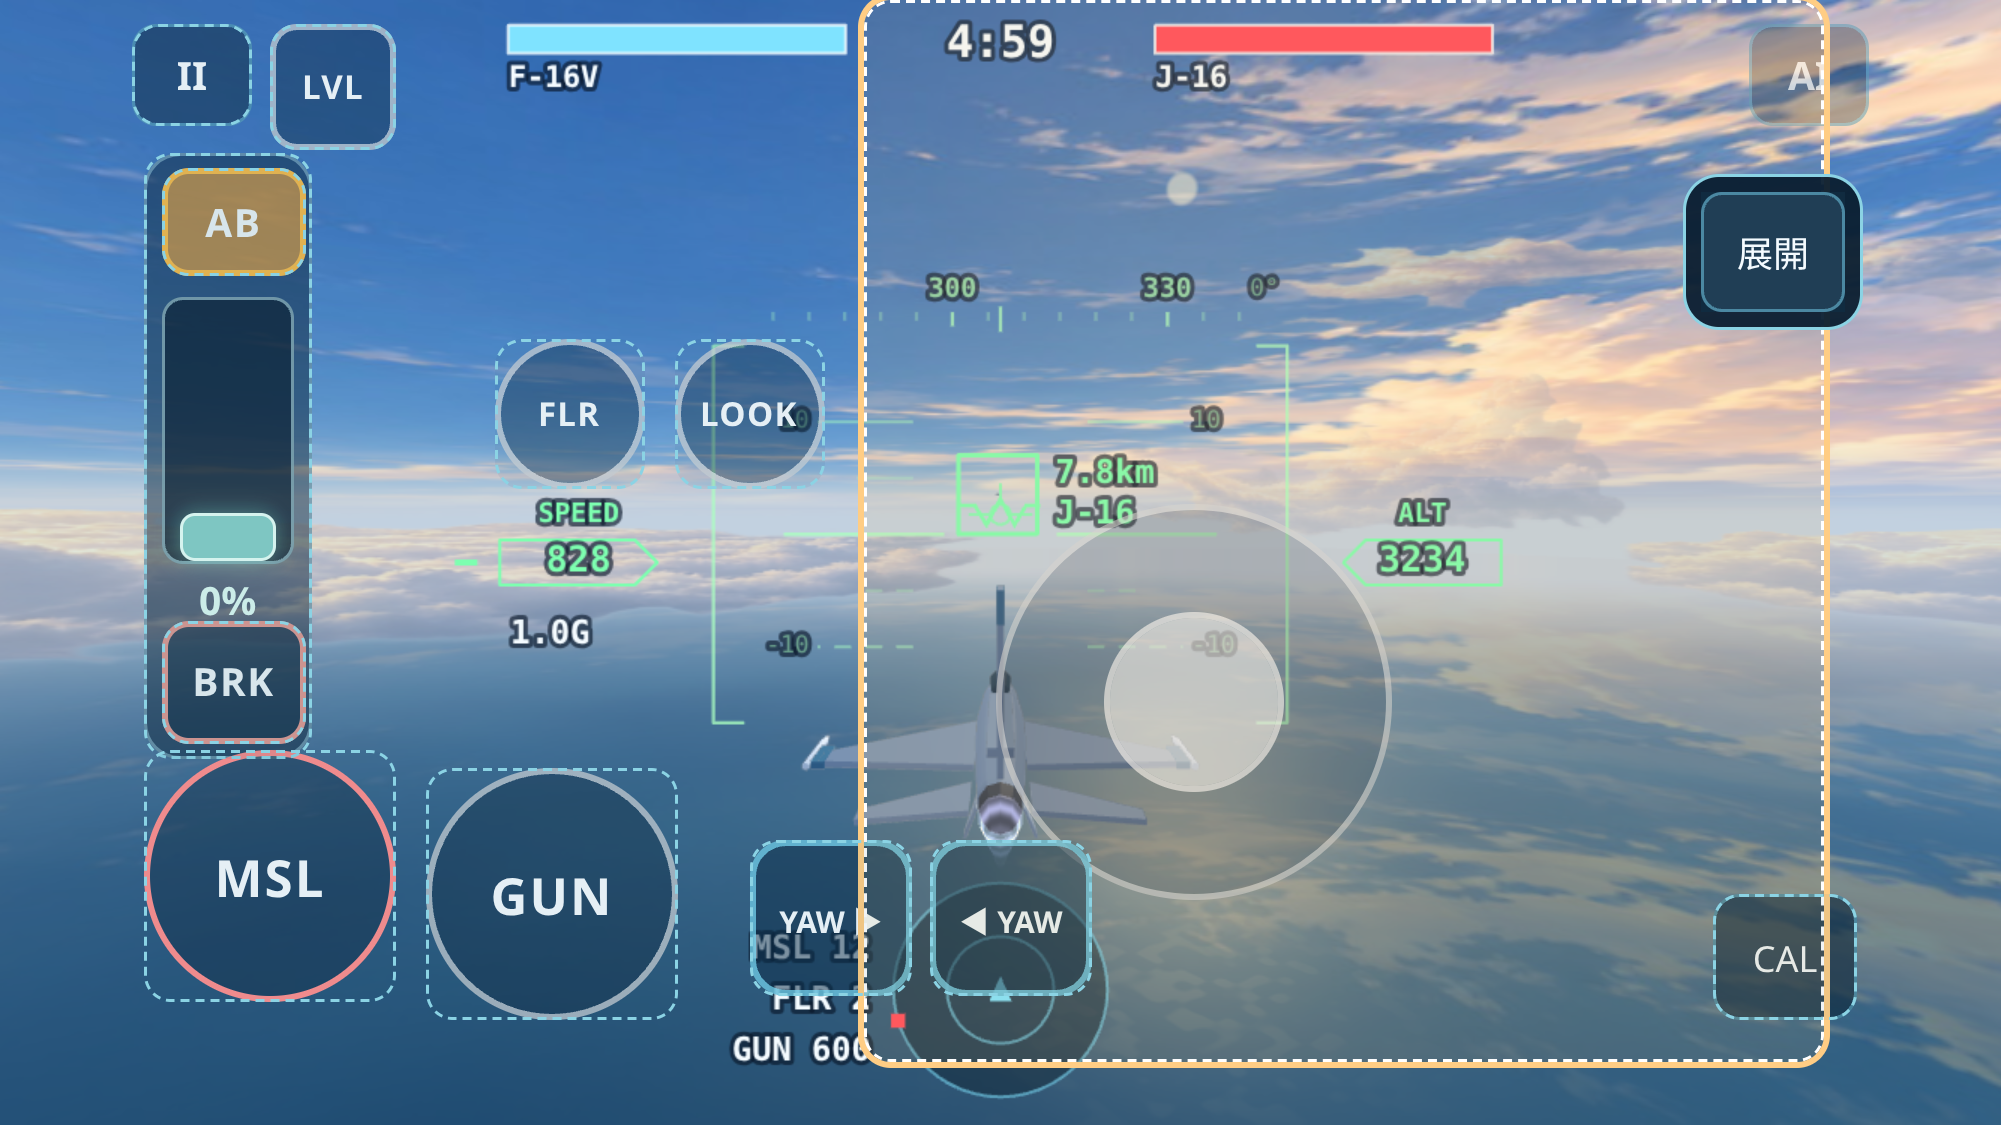
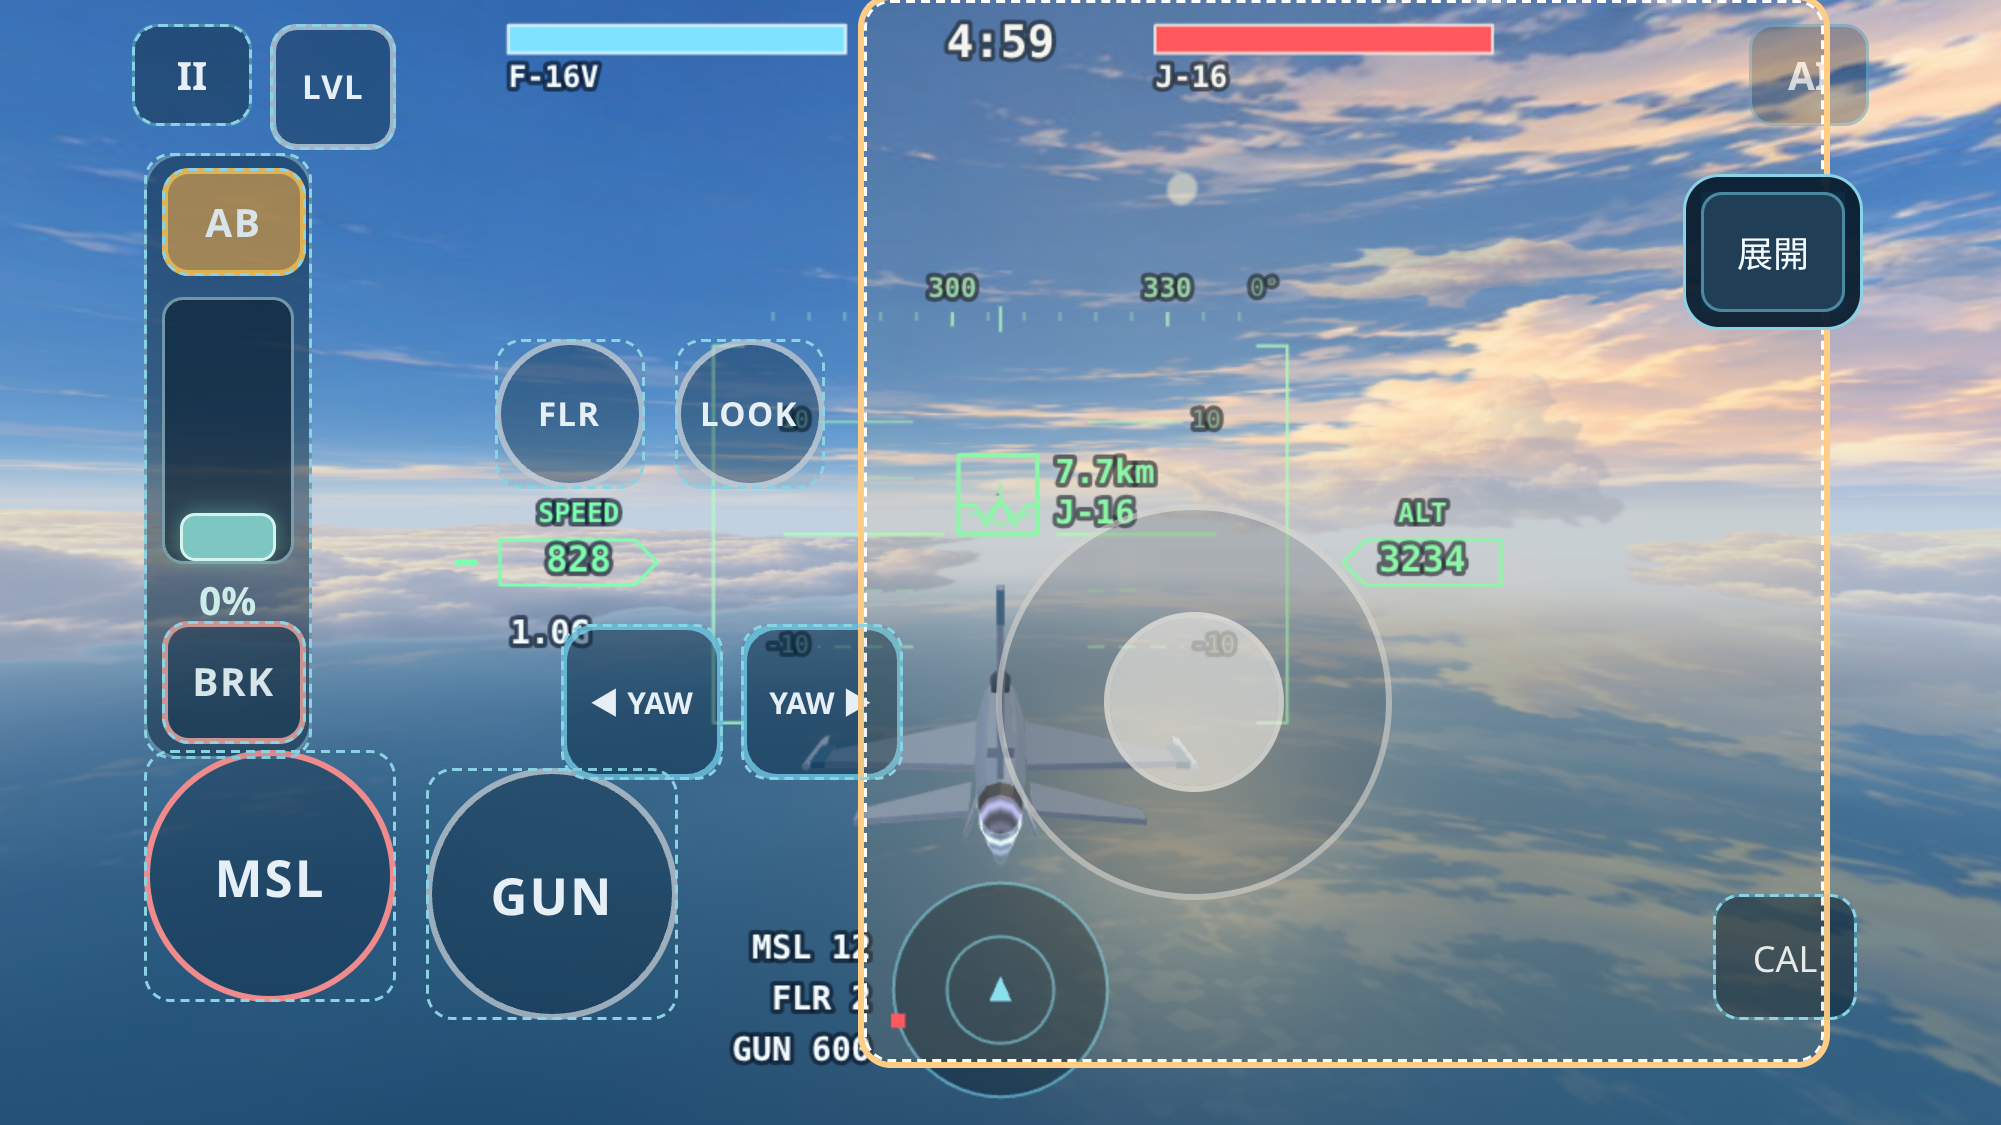
fix(ace): preserve pedal direction order and HUD clearance in left-hand layout

Changed region(s): [[0.2789, 0.5289, 0.4648, 0.7156], [0.3718, 0.7156, 0.5577, 0.9022], [0.5267, 0.4044, 0.5577, 0.4356]]

diff --git a/prototypes/ace-to-ace/src/game/hud-editor.js b/prototypes/ace-to-ace/src/game/hud-editor.js
@@ -126,6 +126,8 @@ export class HudEditor {
         if(key==='power'){e.x=.07;e.y=.43;e.scale=.9;}
         if(key==='flare'){e.x=.26;e.y=.39;}
         if(key==='look'){e.x=.36;e.y=.39;}
+        if(key==='yawLeft'){e.x=.30;e.y=.66;}
+        if(key==='yawRight'){e.x=.40;e.y=.66;}
         this.draft.items[key]=e;
       }
     }

diff --git a/prototypes/ace-to-ace/docs/mobile-controls-v2.md b/prototypes/ace-to-ace/docs/mobile-controls-v2.md
@@ -180,3 +180,5 @@ and still operates Pause after save/reload (actual minimum 40px/60%). A focused
 and storage fallback. CI runs the complete unfiltered eight-case matrix.
 The throttle opacity check includes its track/readout and frame colors, while
 independently configured AB/BRK keep their own opacity instead of multiplying it.
+The left-hand preset keeps YAW's left/right spatial order and places both pedals
+above the bottom ammo/radar band; this is asserted and checked in the preview.
